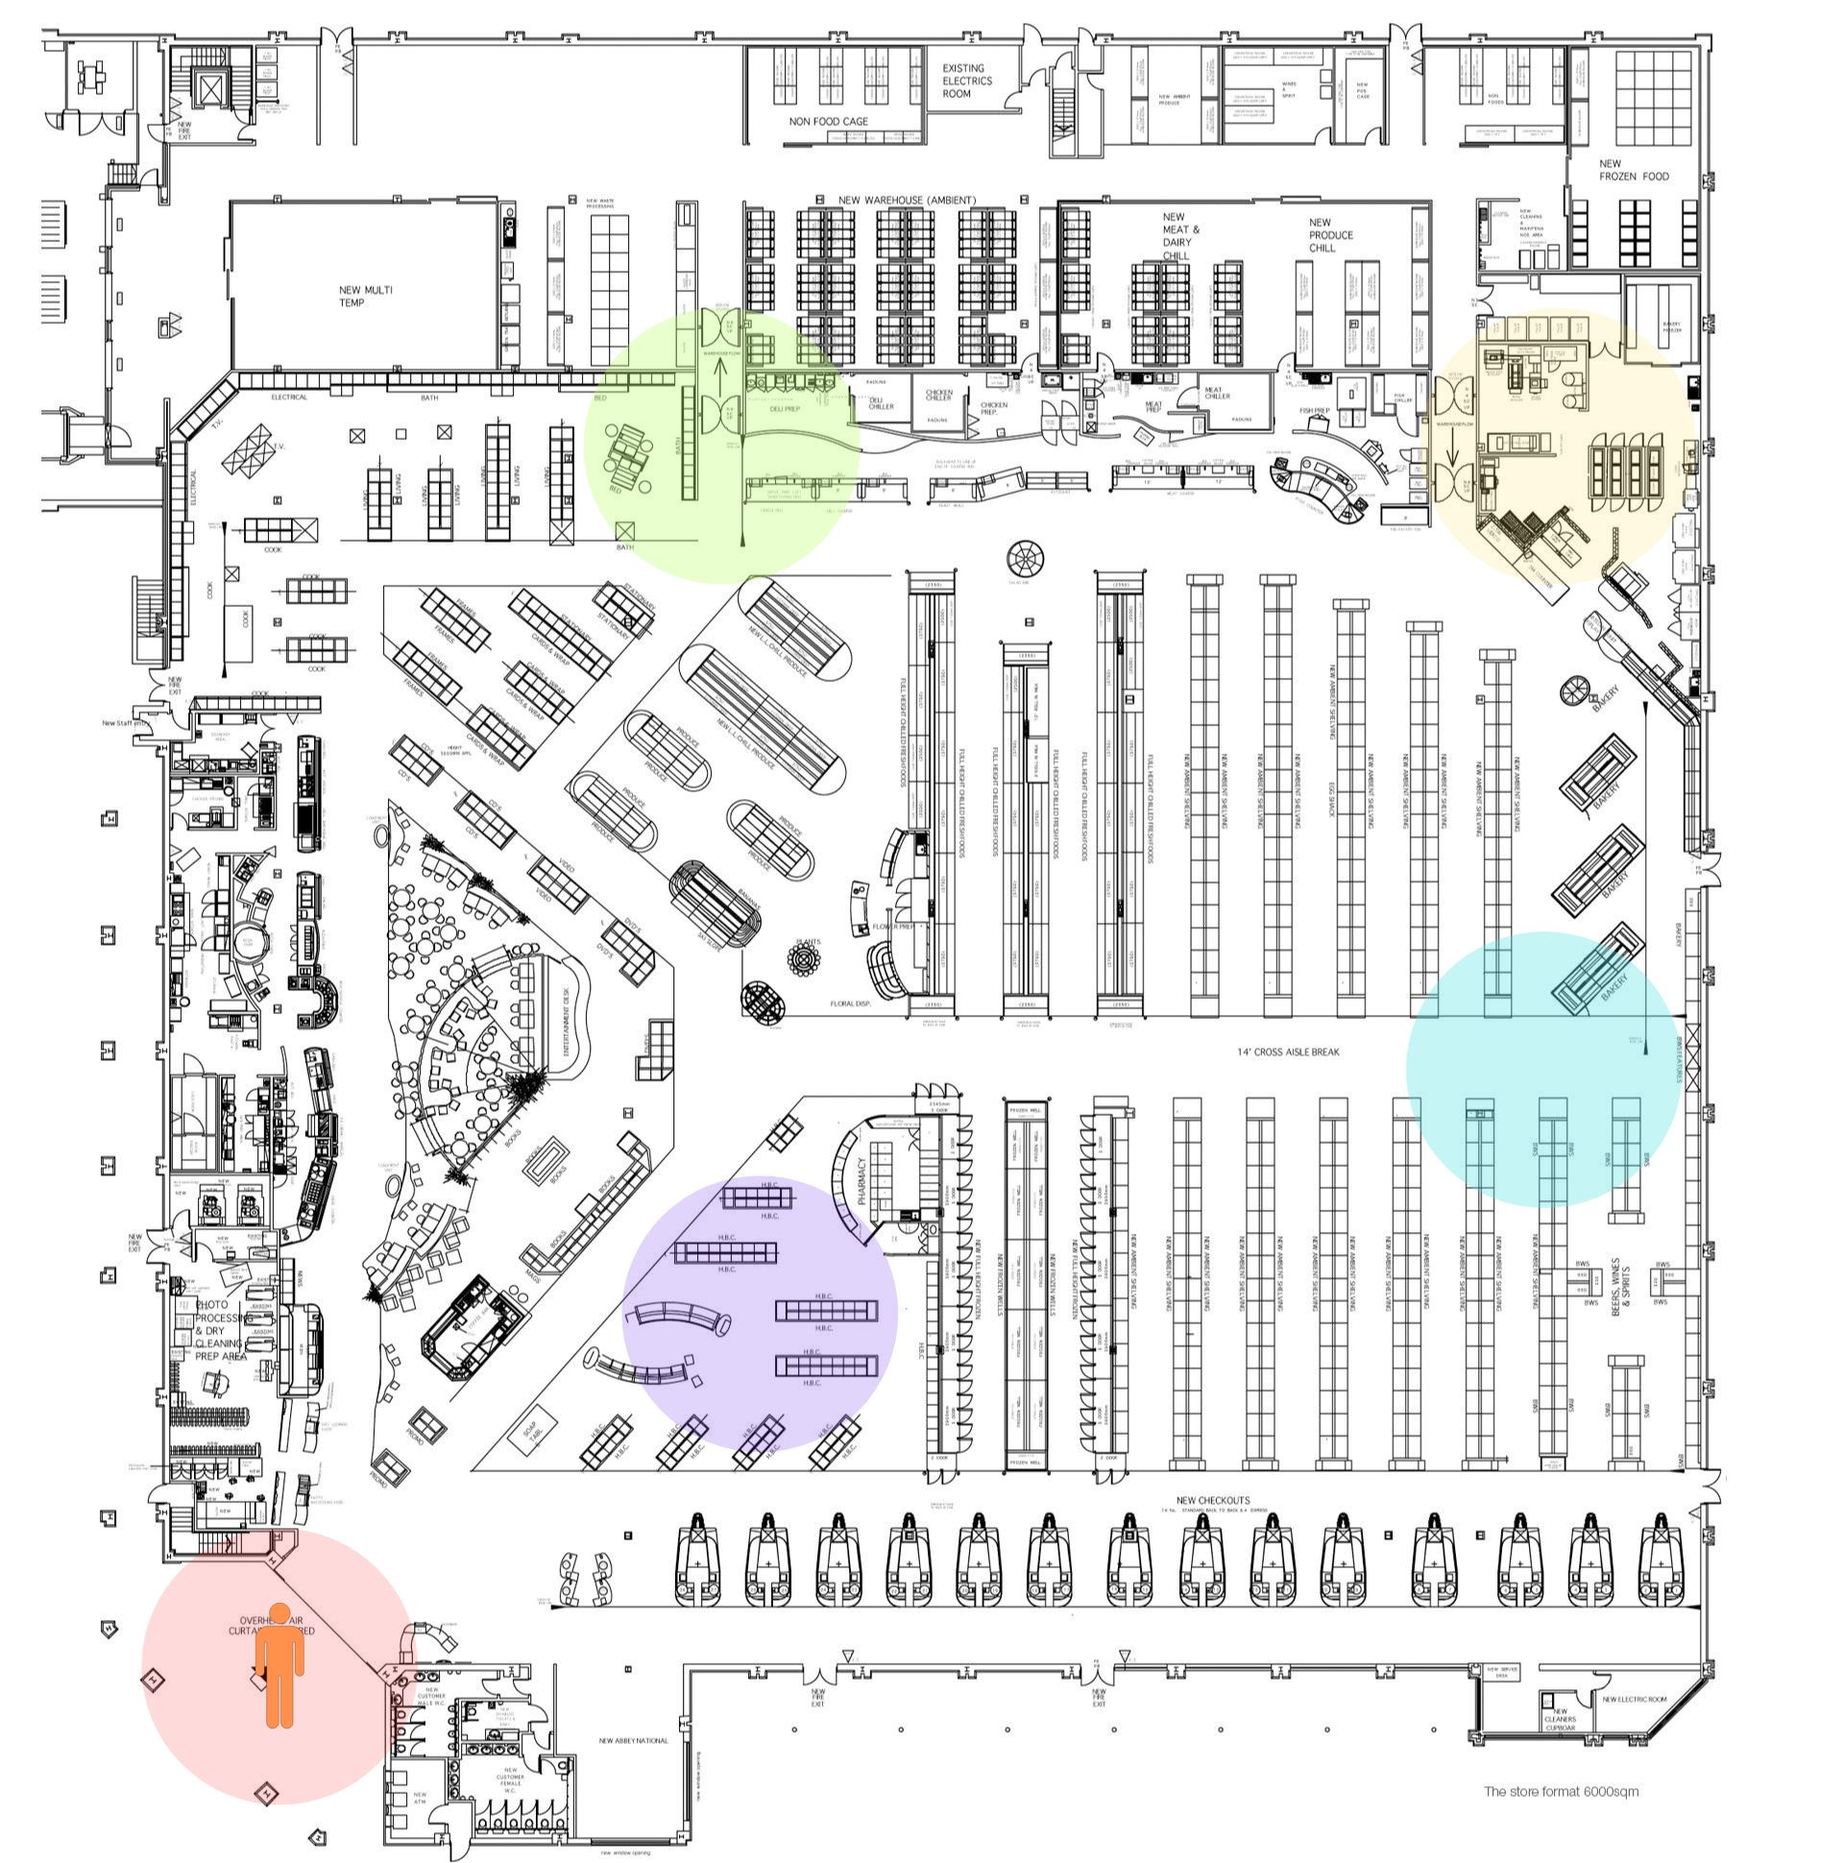
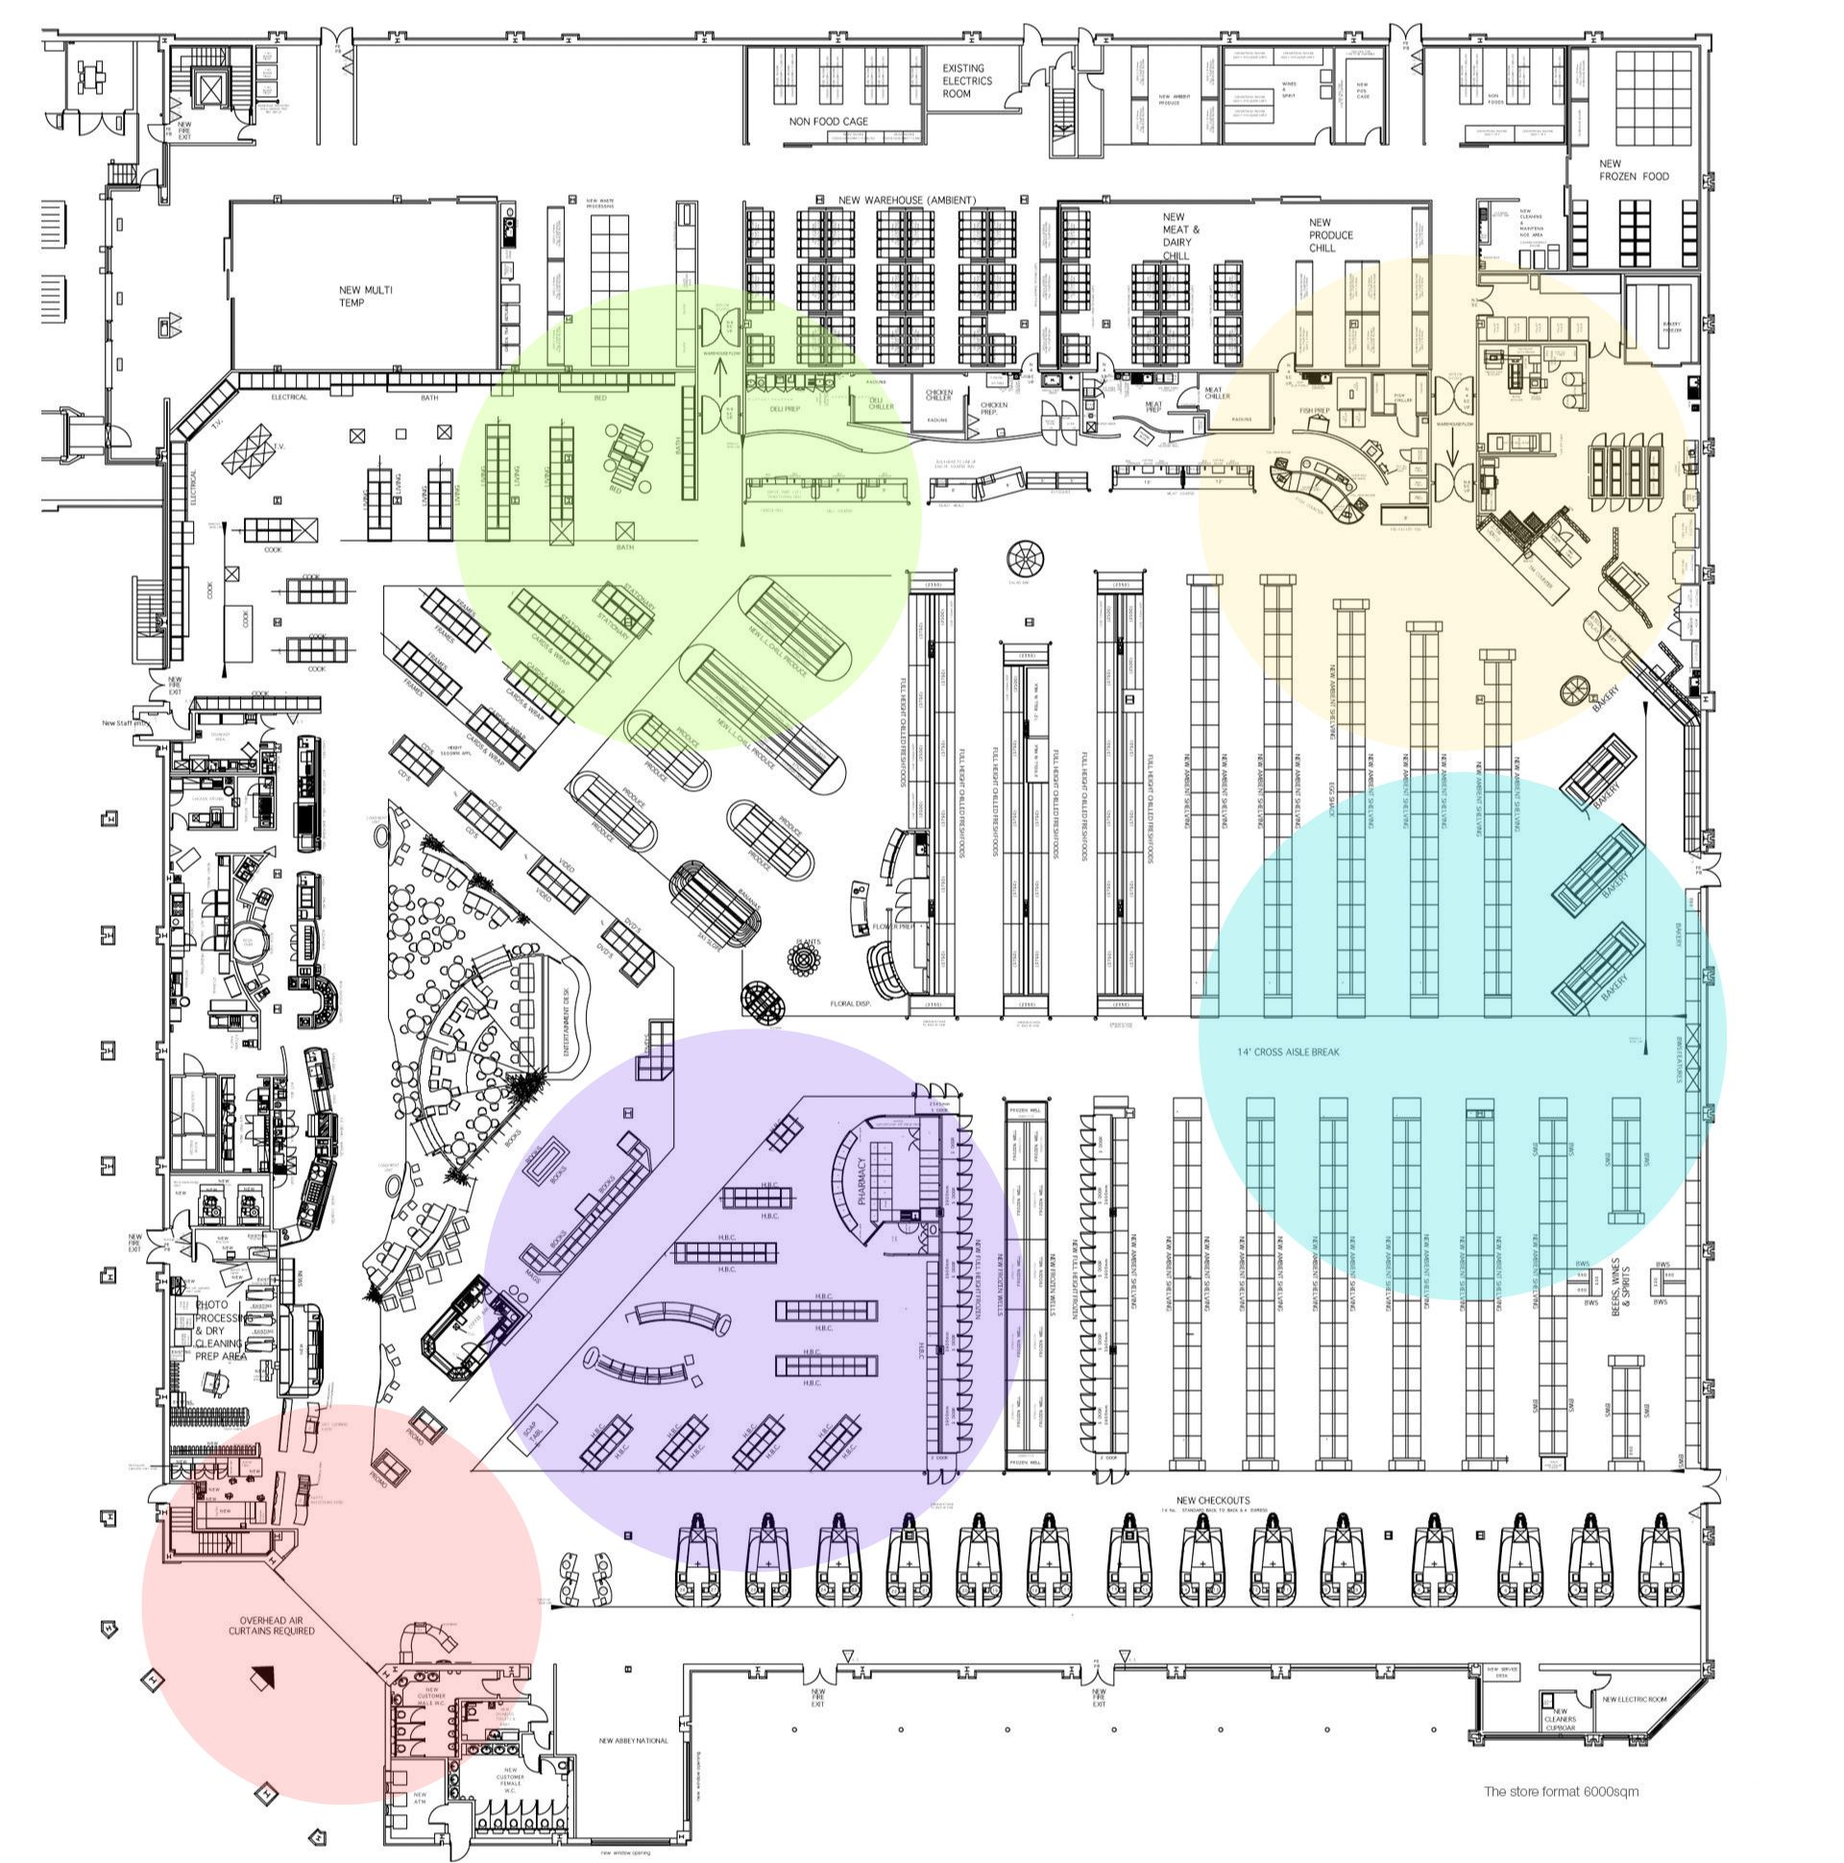
Incorporado resto de beacons
Incorporado resto de beacons

diff --git a/src/MapWithQuadrants.js b/src/MapWithQuadrants.js
@@ -6,13 +6,15 @@ import planoBase from 'C:/Users/cleve/source/repos/Teltonika/Teltonika/src/asset
 import personal3Icon from 'C:/Users/cleve/source/repos/Teltonika/Teltonika/src/assets/images/Personal 3.png';
 import Header from './Header'; // Importa el nuevo encabezado
 
-
 function MapWithQuadrants() {
     const [activeBeacons, setActiveBeacons] = useState([]);
     const [bothBeaconsDetected, setBothBeaconsDetected] = useState(false);
     const [beaconLogs, setBeaconLogs] = useState({
         '0C403019-61C7-55AA-B7EA-DAC30C720055': { entrada: null, detecciones: 0 },
-        'E9EB8F18-61C7-55AA-9496-3AC30C720055': { entrada: null, detecciones: 0 }
+        'E9EB8F18-61C7-55AA-9496-3AC30C720055': { entrada: null, detecciones: 0 },
+        'F7826DA6-BC5B-71E0-893E-4B484D67696F': { entrada: null, detecciones: 0 }, // Nuevo beacon 1
+        'F7826DA6-BC5B-71E0-893E-6D424369696F': { entrada: null, detecciones: 0 },  // Nuevo beacon 2
+        'F7826DA6-BC5B-71E0-893E-54654370696F': { entrada: null, detecciones: 0 }  // Nuevo beacon 3
     });
 
     useEffect(() => {
@@ -86,6 +88,45 @@ function MapWithQuadrants() {
                         }} 
                     />
                 )}
+                {!bothBeaconsDetected && activeBeacons.includes('F7826DA6-BC5B-71E0-893E-4B484D67696F') && (
+                    <img 
+                        src={personal3Icon} 
+                        alt="Personal 3" 
+                        className="personal-icon" 
+                        style={{ 
+                            position: 'absolute', 
+                            bottom: '40%', 
+                            right: '70%', 
+                            width: '2%' 
+                        }} 
+                    />
+                )}
+                {!bothBeaconsDetected && activeBeacons.includes('F7826DA6-BC5B-71E0-893E-6D424369696F') && (
+                    <img 
+                        src={personal3Icon} 
+                        alt="Personal 3" 
+                        className="personal-icon" 
+                        style={{ 
+                            position: 'absolute', 
+                            bottom: '50%', 
+                            right: '65%', 
+                            width: '2%' 
+                        }} 
+                    />
+                )}
+                {!bothBeaconsDetected && activeBeacons.includes('F7826DA6-BC5B-71E0-893E-54654370696F') && (
+                    <img 
+                        src={personal3Icon} 
+                        alt="Personal 3" 
+                        className="personal-icon" 
+                        style={{ 
+                            position: 'absolute', 
+                            bottom: '68%', 
+                            right: '30%', 
+                            width: '2%' 
+                        }} 
+                    />
+                )}
             </div>
             <table className="beacon-logs-table">
                 <thead>
@@ -102,6 +143,9 @@ function MapWithQuadrants() {
                             <td>
                                 {beaconId === '0C403019-61C7-55AA-B7EA-DAC30C720055' && 'E/S Bodega'}
                                 {beaconId === 'E9EB8F18-61C7-55AA-9496-3AC30C720055' && 'Farmacia'}
+                                {beaconId === 'F7826DA6-BC5B-71E0-893E-4B484D67696F' && 'Entrada'}
+                                {beaconId === 'F7826DA6-BC5B-71E0-893E-6D424369696F' && 'Pasillo Central'}
+                                {beaconId === 'F7826DA6-BC5B-71E0-893E-54654370696F' && 'Electro'}
                             </td>
                             <td>{beaconLogs[beaconId].entrada ? beaconLogs[beaconId].entrada.toLocaleString() : 'N/A'}</td>
                         </tr>

diff --git a/src/SelectRoutine.js b/src/SelectRoutine.js
@@ -1,3 +1,4 @@
+// SelectRoutine.js
 import React from 'react';
 import { useNavigate } from 'react-router-dom';
 import './SelectRoutine.css';
@@ -16,22 +17,46 @@ const SelectRoutine = () => {
       <div className="routine-sectors">
         <div className="routine-row">
           <div className="routine-sector">
-            <img src={lastKnownPositionImage} alt="Ubicación Exteriores Tiempo Real" className="routine-image" />
-            <button onClick={() => navigate('/last-known-position')} className="routine-button">Ubicación Exteriores Tiempo Real</button>
+            <div className="routine-title">Ubicación Exteriores Tiempo Real</div>
+            <img 
+              src={lastKnownPositionImage} 
+              alt="Ubicación Exteriores Tiempo Real" 
+              className="routine-image" 
+              onClick={() => navigate('/last-known-position')} 
+            />
+            <button onClick={() => navigate('/last-known-position')} className="routine-button">Ir a la App</button>
           </div>
           <div className="routine-sector">
-            <img src={interiorLocationsImage} alt="Ubicación Interiores Tiempo Real" className="routine-image" />
-            <button onClick={() => navigate('/ubicaciones-interior')} className="routine-button">Ubicación Interiores Tiempo Real</button>
+            <div className="routine-title">Ubicación Interiores Tiempo Real</div>
+            <img 
+              src={interiorLocationsImage} 
+              alt="Ubicación Interiores Tiempo Real" 
+              className="routine-image" 
+              onClick={() => navigate('/ubicaciones-interior')} 
+            />
+            <button onClick={() => navigate('/ubicaciones-interior')} className="routine-button">Ir a la App</button>
           </div>
         </div>
         <div className="routine-row">
           <div className="routine-sector">
-            <img src={personSearchImage} alt="Busqueda Histórica Ubicación Interiores" className="routine-image" />
-            <button onClick={() => navigate('/busqueda-entradas-persona')} className="routine-button">Busqueda Histórica Ubicación Interiores</button>
+            <div className="routine-title">Busqueda Histórica Ubicación Interiores</div>
+            <img 
+              src={personSearchImage} 
+              alt="Busqueda Histórica Ubicación Interiores" 
+              className="routine-image" 
+              onClick={() => navigate('/busqueda-entradas-persona')} 
+            />
+            <button onClick={() => navigate('/busqueda-entradas-persona')} className="routine-button">Ir a la App</button>
           </div>
           <div className="routine-sector">
-            <img src={historicalMovementsImage} alt="Busqueda Histórica Ubicación Exteriores" className="routine-image" />
-            <button onClick={() => navigate('/consulta-historica-movimientos')} className="routine-button">Busqueda Histórica Ubicación Exteriores</button>
+            <div className="routine-title">Busqueda Histórica Ubicación Exteriores</div>
+            <img 
+              src={historicalMovementsImage} 
+              alt="Busqueda Histórica Ubicación Exteriores" 
+              className="routine-image" 
+              onClick={() => navigate('/consulta-historica-movimientos')} 
+            />
+            <button onClick={() => navigate('/consulta-historica-movimientos')} className="routine-button">Ir a la App</button>
           </div>
         </div>
       </div>

diff --git a/server.js b/server.js
@@ -1,3 +1,4 @@
+// server.js
 'use strict';
 
 const express = require('express');
@@ -204,13 +205,56 @@ app.get('/api/beacon-entries-exits', async (req, res) => {
                         currentBeacon = 'E/S Bodega';
                         entryTimestamp = record.timestamp * 1000;
                     }
+                } else if (beacon.id === 'F7826DA6-BC5B-71E0-893E-4B484D67696F') {
+                    if (currentBeacon !== 'Entrada') {
+                        if (currentBeacon !== null) {
+                            processedResults.push({
+                                beaconId: 'F7826DA6-BC5B-71E0-893E-4B484D67696F',
+                                sector: 'Entrada',
+                                entrada: entryTimestamp,
+                                salida: record.timestamp * 1000
+                            });
+                        }
+                        currentBeacon = 'Entrada';
+                        entryTimestamp = record.timestamp * 1000;
+                    }
+                } else if (beacon.id === 'F7826DA6-BC5B-71E0-893E-6D424369696F') {
+                    if (currentBeacon !== 'Pasillo Central') {
+                        if (currentBeacon !== null) {
+                            processedResults.push({
+                                beaconId: 'F7826DA6-BC5B-71E0-893E-6D424369696F',
+                                sector: 'Pasillo Central',
+                                entrada: entryTimestamp,
+                                salida: record.timestamp * 1000
+                            });
+                        }
+                        currentBeacon = 'Pasillo Central';
+                        entryTimestamp = record.timestamp * 1000;
+                    }
+                } else if (beacon.id === 'F7826DA6-BC5B-71E0-893E-54654370696F') {
+                    if (currentBeacon !== 'Electro') {
+                        if (currentBeacon !== null) {
+                            processedResults.push({
+                                beaconId: 'F7826DA6-BC5B-71E0-893E-54654370696F',
+                                sector: 'Electro',
+                                entrada: entryTimestamp,
+                                salida: record.timestamp * 1000
+                            });
+                        }
+                        currentBeacon = 'Electro';
+                        entryTimestamp = record.timestamp * 1000;
+                    }
                 }
             });
         });
 
         if (currentBeacon !== null) {
             processedResults.push({
-                beaconId: currentBeacon === 'Oficina Seguridad (NOC)' ? '0C403019-61C7-55AA-B7EA-DAC30C720055' : 'E9EB8F18-61C7-55AA-9496-3AC30C720055',
+                beaconId: currentBeacon === 'Oficina Seguridad (NOC)' ? '0C403019-61C7-55AA-B7EA-DAC30C720055' : 
+                          currentBeacon === 'E/S Bodega' ? 'E9EB8F18-61C7-55AA-9496-3AC30C720055' :
+                          currentBeacon === 'Entrada' ? 'F7826DA6-BC5B-71E0-893E-4B484D67696F' :
+                          currentBeacon === 'Pasillo Central' ? 'F7826DA6-BC5B-71E0-893E-6D424369696F' :
+                          'F7826DA6-BC5B-71E0-893E-54654370696F',
                 sector: currentBeacon,
                 entrada: entryTimestamp,
                 salida: null // Actualmente no hay salida

diff --git a/src/SelectRoutine.css b/src/SelectRoutine.css
@@ -1,57 +1,65 @@
-/* Ejemplo en un archivo CSS específico, como Header.css */
-.header {
-  font-family: 'Roboto', sans-serif;
+/* SelectRoutine.css */
+.select-routine {
+  text-align: center;
 }
 
-.select-routine {
-    text-align: center;
-    padding: 20px;
-  }
-  
-  .routine-sectors {
-    display: flex;
-    flex-direction: column;
-    align-items: center;
-    gap: 20px;
-  }
-  
-  .routine-row {
-    display: flex;
-    justify-content: center;
-    gap: 20px;
-    width: 50%;
-  }
-  
-  .routine-sector {
-    display: flex;
-    flex-direction: column;
-    align-items: center;
-    gap: 10px;
-    width: 45%; /* Ajusta este valor según sea necesario */
-    border: 1px solid #ddd;
-    padding: 20px;
-    border-radius: 8px;
-  }
-  
-  .routine-image {
-    width: 100%; /* Ajusta este valor según sea necesario */
-    height: auto;
-    border-radius: 8px;
-  }
-  
-  .routine-button {
-    padding: 10px 20px;
-    font-size: 16px;
-    cursor: pointer;
-    background-color: #007bff;
-    color: white;
-    border: none;
-    border-radius: 4px;
-    margin-top: 10px;
-    transition: background-color 0.3s;
-  }
-  
-  .routine-button:hover {
-    background-color: #0056b3;
-  }
-  
+.routine-sectors {
+  display: flex;
+  flex-direction: column;
+  align-items: center;
+  gap: 20px;
+}
+
+.routine-row {
+  display: flex;
+  justify-content: center;
+  gap: 20px;
+}
+
+.routine-sector {
+  position: relative;
+  width: 300px;
+  text-align: center;
+}
+
+.routine-title {
+  font-size: 1.2em;
+  font-weight: bold;
+  margin-bottom: 10px;
+}
+
+.routine-image {
+  width: 100%;
+  height: auto;
+  cursor: pointer; /* Cambia el cursor al pasar sobre la imagen */
+}
+
+.routine-button {
+  display: block;
+  width: 100%;
+  padding: 10px;
+  background-color: #007bff;
+  color: white;
+  border: none;
+  border-radius: 5px;
+  cursor: pointer;
+  margin-top: 10px;
+}
+
+.routine-button:hover {
+  background-color: #0056b3;
+}
+
+.back-button {
+  margin-top: 20px;
+  padding: 10px 20px;
+  background-color: #6c757d;
+  color: white;
+  border: none;
+  border-radius: 5px;
+  cursor: pointer;
+}
+
+.back-button:hover {
+  background-color: #5a6268;
+}

diff --git a/src/PersonSearch.js b/src/PersonSearch.js
@@ -38,6 +38,12 @@ function PersonSearch() {
             return <span style={{ color: '#6b9fd4' }}>E/S Bodega</span>;
         } else if (beaconId === 'E9EB8F18-61C7-55AA-9496-3AC30C720055') {
             return <span style={{ color: '#00ab41' }}>Farmacia</span>;
+        } else if (beaconId === 'F7826DA6-BC5B-71E0-893E-4B484D67696F') {
+            return <span style={{ color: '#ff6600' }}>Entrada</span>;
+        } else if (beaconId === 'F7826DA6-BC5B-71E0-893E-6D424369696F') {
+            return <span style={{ color: '#ff33cc' }}>Pasillo Central</span>;
+        } else if (beaconId === 'F7826DA6-BC5B-71E0-893E-54654370696F') {
+            return <span style={{ color: '#00ffcc' }}>Electro</span>;
         }
         return 'Unknown';
     };
